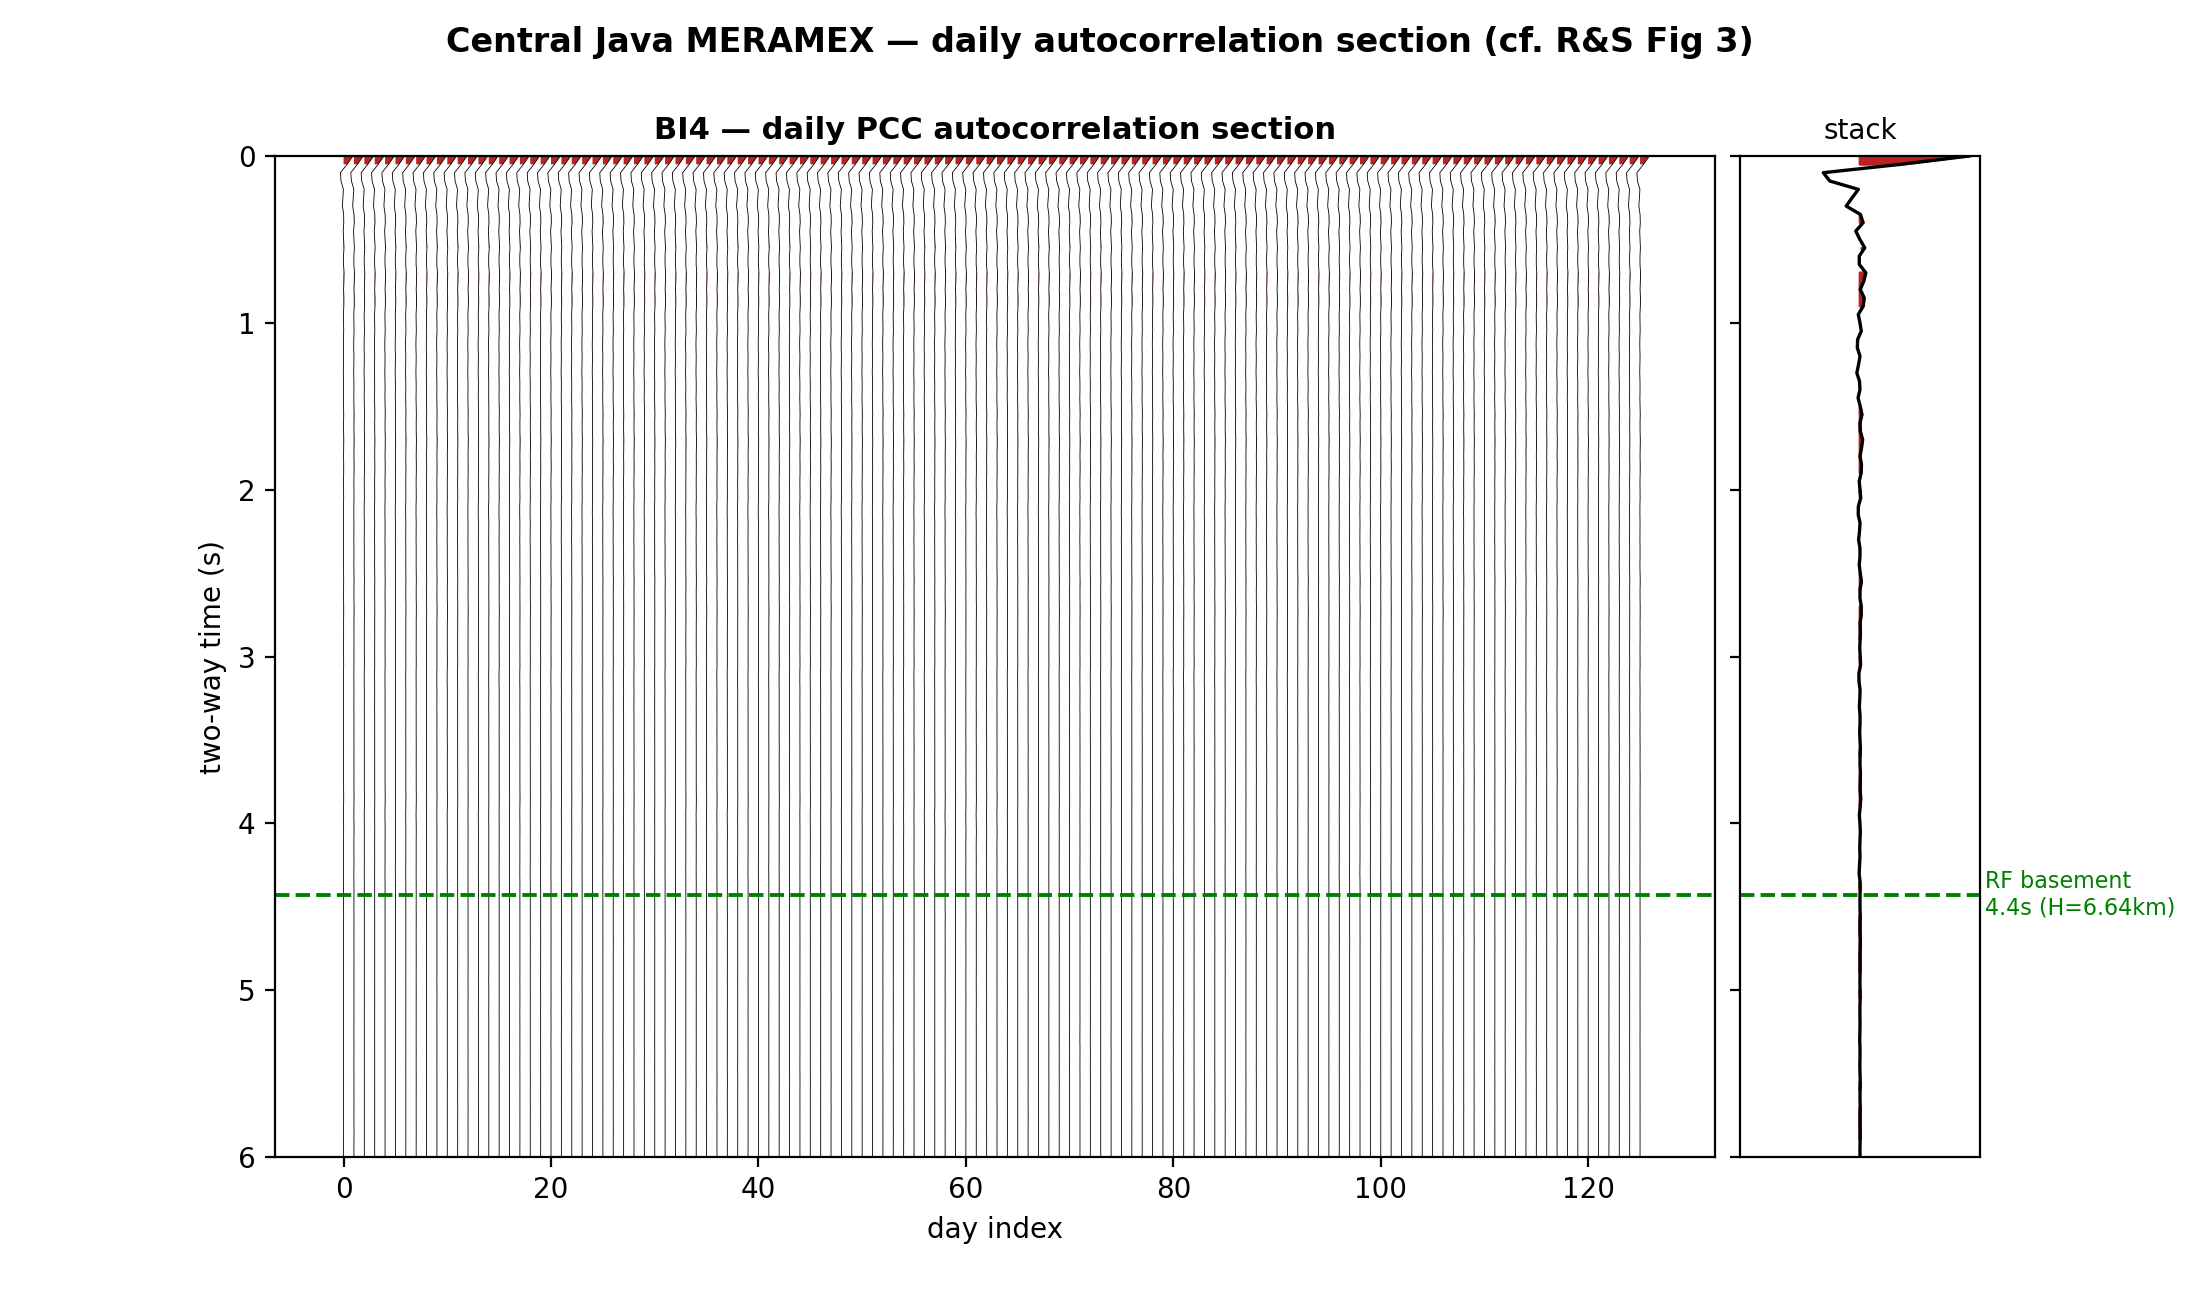
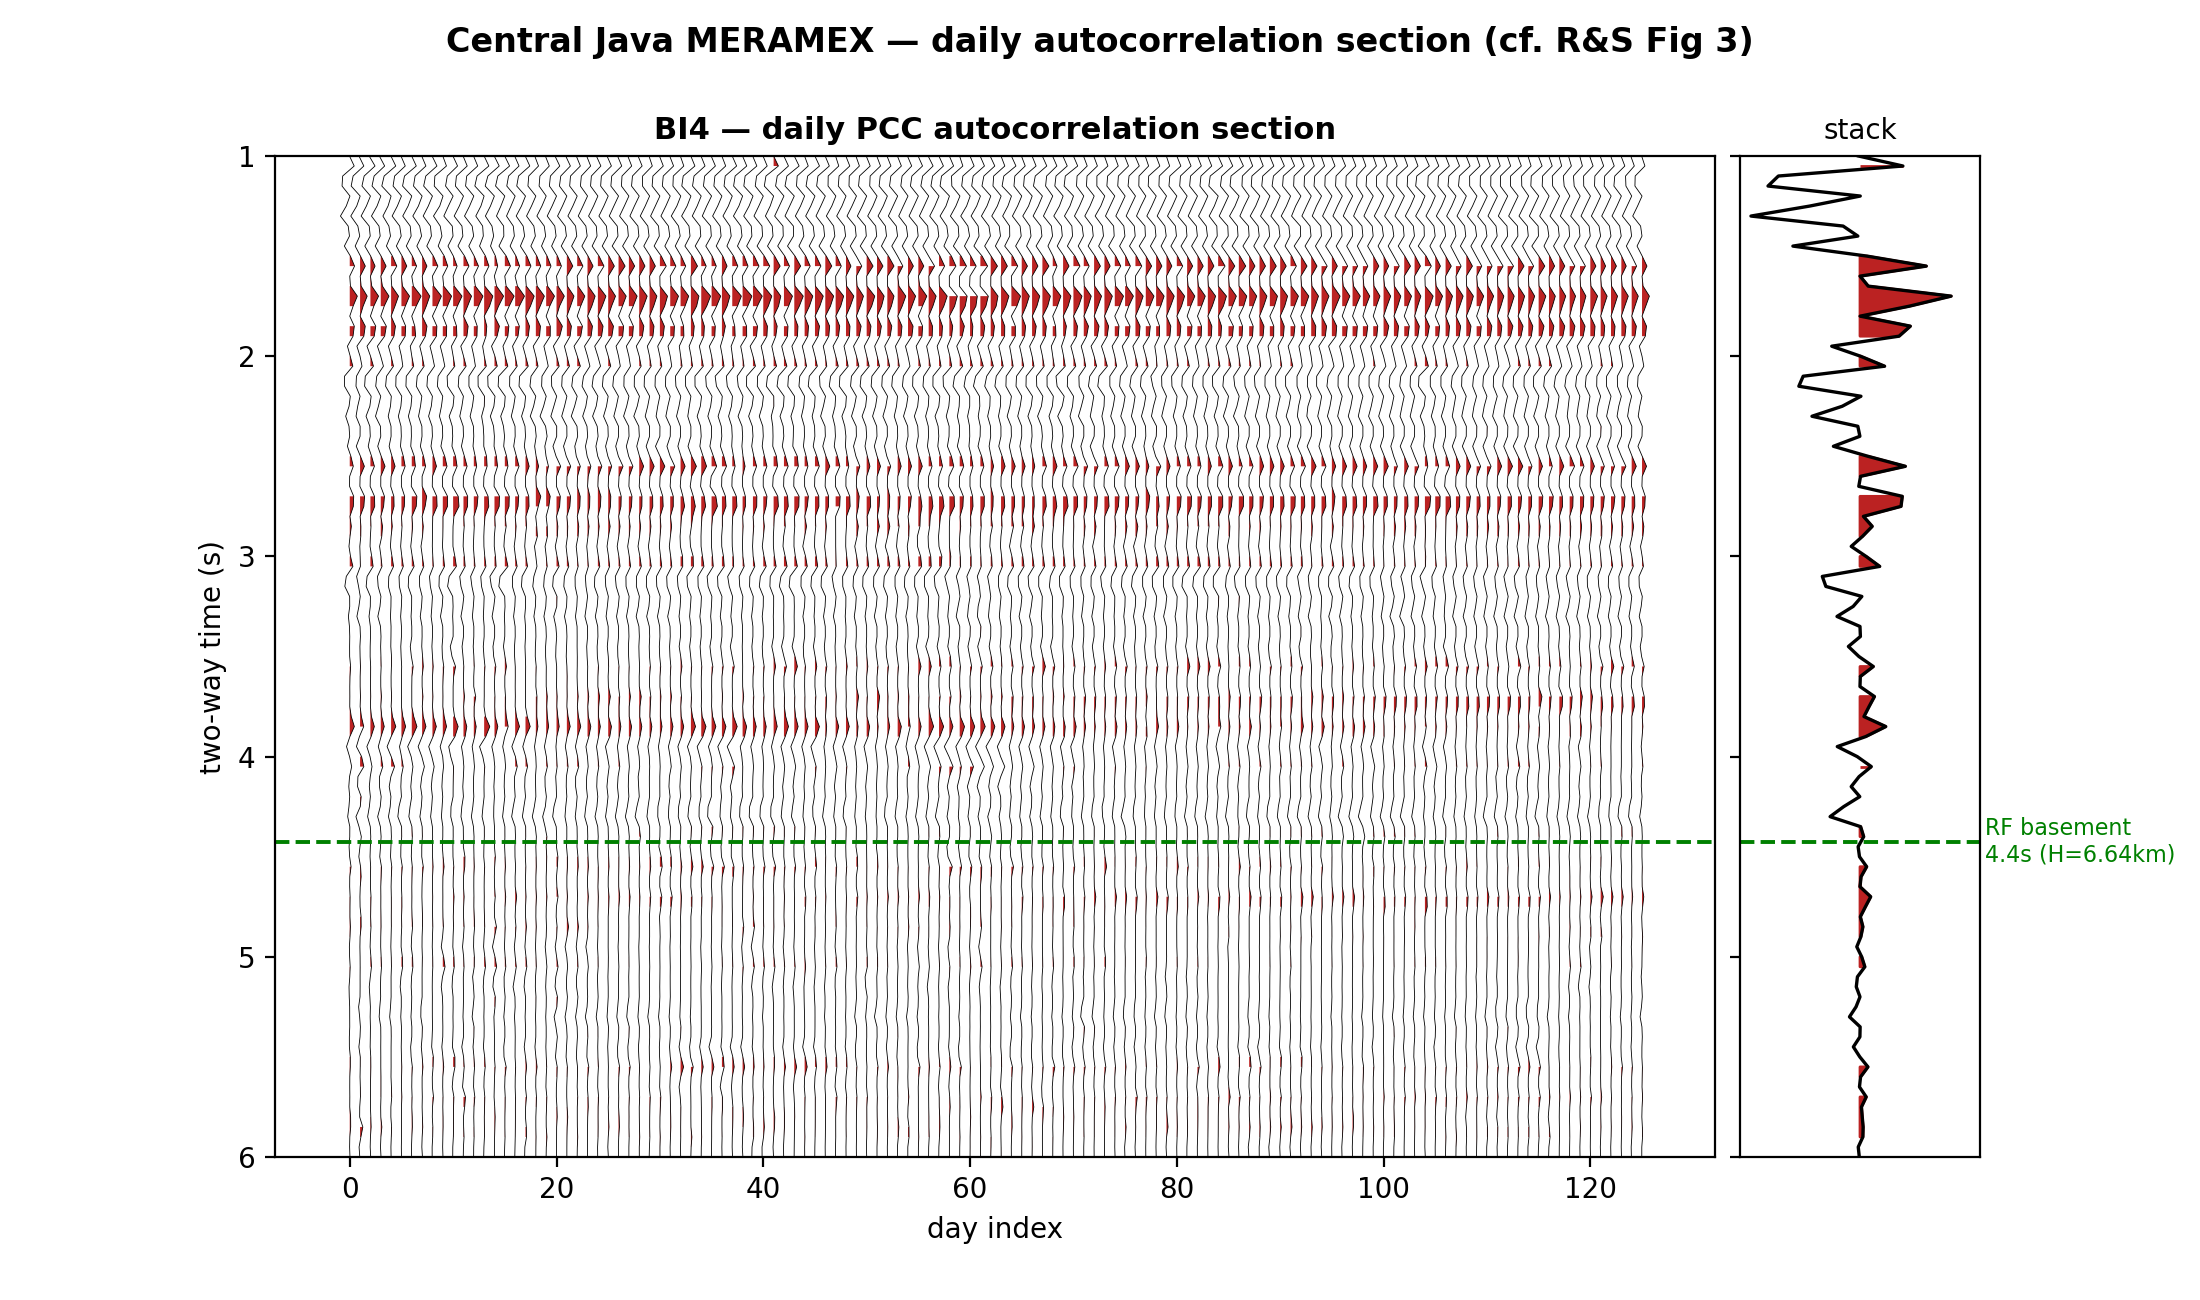
R&S Fig 3/7: start section at 1 s (crop zero-lag) to reveal coherent reflectors
Cropping the autocorrelation display to TWT>=1 s and renormalising within the
window (as in R&S Fig 3) reveals laterally coherent, day-stable reflection events
in the BI4 PCC section at ~1.2/1.7/1.9/2.6/3.1/4.1 s (daily-stack corr ~0.97) that
were masked by the zero-lag peak. The reflections ARE retrieved and stable; a
velocity/RF control is still needed to label which event is the basement.

diff --git a/ambient_noise/rs_figures.py b/ambient_noise/rs_figures.py
@@ -86,7 +86,8 @@ def fig3(code="BI4"):
     import matplotlib.pyplot as plt
     days, M, total, lag = daily_traces(code)
     H = rf_sed(code); twt = 2 * H / VP_SED if H else None
-    m = lag <= 6
+    LAG0 = 1.0                                    # start at 1 s (cf. R&S Fig 3)
+    m = (lag >= LAG0) & (lag <= 6)
     fig, (ax, axs) = plt.subplots(1, 2, figsize=(11, 6.5), sharey=True,
                                   gridspec_kw=dict(width_ratios=[6, 1], wspace=0.03))
     x = np.arange(M.shape[0])
@@ -95,7 +96,7 @@ def fig3(code="BI4"):
         tr = norm[i] * 0.9 + x[i]
         ax.plot(tr, lag[m], color="k", lw=0.3)
         ax.fill_betweenx(lag[m], x[i], tr, where=(tr > x[i]), color="#B22", lw=0)
-    ax.set_ylim(6, 0); ax.set_xlabel("day index"); ax.set_ylabel("two-way time (s)")
+    ax.set_ylim(6, LAG0); ax.set_xlabel("day index"); ax.set_ylabel("two-way time (s)")
     ax.set_title(f"{code} — daily PCC autocorrelation section", fontweight="bold", fontsize=11)
     t2 = total[m] / (np.max(np.abs(total[m])) + 1e-9)
     axs.plot(t2, lag[m], "k", lw=1.2); axs.fill_betweenx(lag[m], 0, t2, where=(t2 > 0), color="#B22")
@@ -168,7 +169,8 @@ def fig7(code="BI4"):
     import matplotlib.pyplot as plt
     days, M, total, lag = daily_traces(code)
     H = rf_sed(code); twt = 2 * H / VP_SED if H else None
-    m = lag <= 6
+    LAG0 = 1.0                                    # start at 1 s (cf. R&S Fig 3/7)
+    m = (lag >= LAG0) & (lag <= 6)
     norm = M[:, m] / (np.max(np.abs(M[:, m]), axis=1, keepdims=True) + 1e-9)
     corr = np.array([np.corrcoef(M[i, m], total[m])[0, 1] for i in range(M.shape[0])])
     fig, (axt, axb) = plt.subplots(2, 1, figsize=(11, 6.5), sharex=True,
@@ -177,7 +179,7 @@ def fig7(code="BI4"):
     axt.set_ylim(0, 1.02); axt.grid(alpha=.3)
     axt.set_title(f"{code} — reflection-response time stability (cf. R&S Fig 7)", fontweight="bold", fontsize=11)
     im = axb.imshow(norm.T, aspect="auto", origin="upper", cmap="bwr", vmin=-1, vmax=1,
-                    extent=[0, M.shape[0], lag[m][-1], 0])
+                    extent=[0, M.shape[0], lag[m][-1], lag[m][0]])
     axb.set_ylabel("two-way time (s)"); axb.set_xlabel("day index")
     if twt:
         axb.axhline(twt, color="green", ls="--", lw=1.4)
